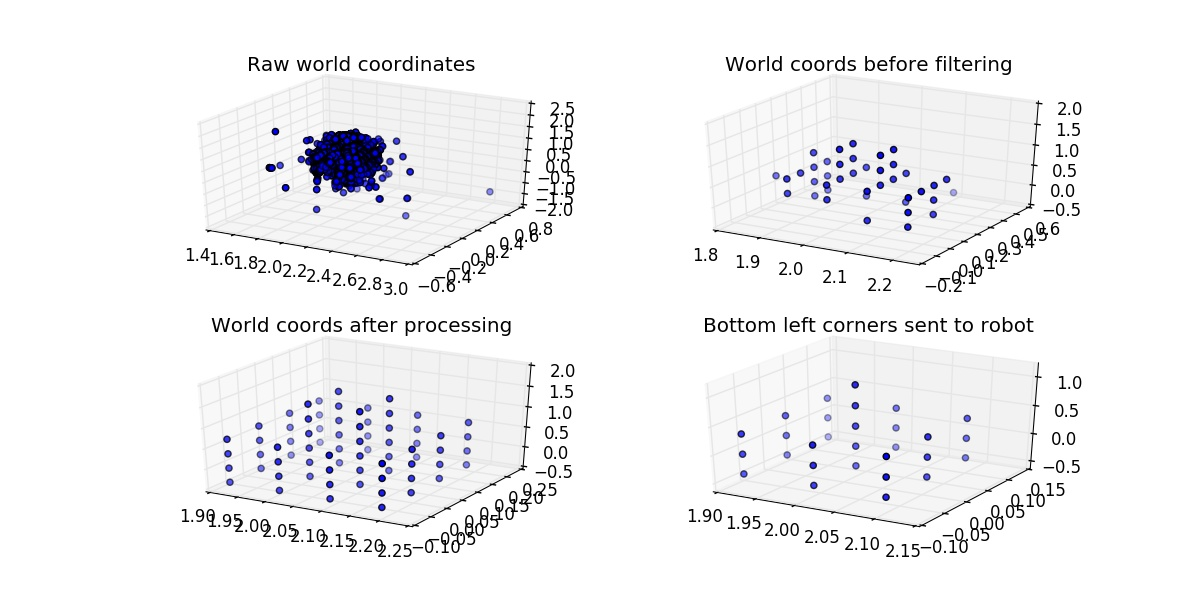
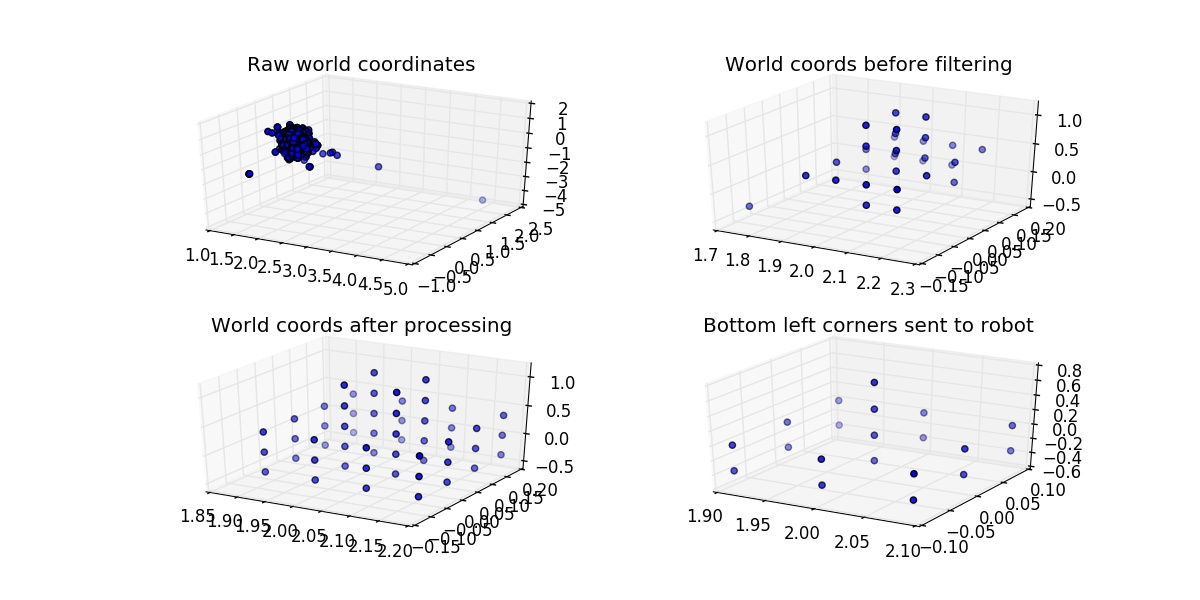
reverting back to old structure/images, renamed camera_image_raw to image_raw

diff --git a/src/global_constants/src/global_constants/camera.py b/src/global_constants/src/global_constants/camera.py
@@ -22,7 +22,7 @@ for i, d in enumerate(gconst.CAMERA_DATA):
 class CameraDTO:
     TOPIC_TEMPLATE = "/camera{}/color/camera_info"
     IMAGE_TOPIC_TEMPLATE = "/camera{}/color/image_raw"
-    IMAGE_SAVE_TEMPLATE = os.path.join(gconst.IMG_DIR, "camera{}_image_raw.jpg")
+    IMAGE_SAVE_TEMPLATE = os.path.join(gconst.IMG_DIR, "image{}_raw.jpg")
     CAMERA_NAME_TEMPLATE = "camera{}"
 
     def __init__(self, index, pose=None, intrinsic_matrix=None, image=None):

diff --git a/src/global_constants/src/global_constants/constants.py b/src/global_constants/src/global_constants/constants.py
@@ -29,10 +29,10 @@ for delta in deltas:
         CAMERA_DATA.append([(x + delta[0] + .01, y + delta[1] + .01, z), (0 , pitch, delta[2])])
 
 STRUCTURE_TO_BUILD = [  # Passed into WorldSimulation.add_square_2d
-    [x + .01, y + .01, 3, 0],
-    [x + .01, y + .01, 3, 1],
-    [x + .01, y + .01, 1, 2],
-    [x + .01, y + .01, 1, 3]
+    [x, y, 3, 0],
+    [x, y, 1, 1],
+    [x, y, 1, 2]
+    # [x + .01, y + .01, 1, 3]
     # [x, y, 1, 2],
 ]
 
